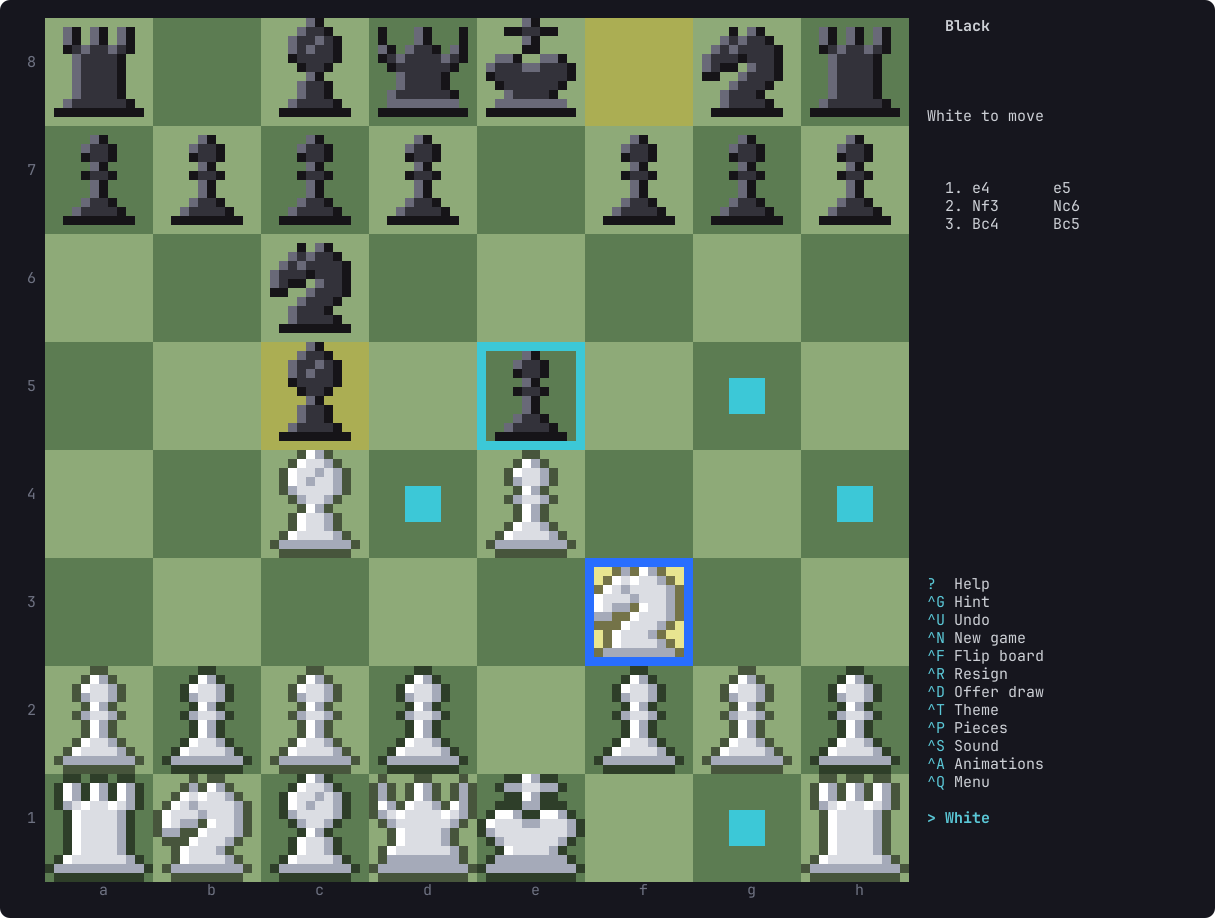
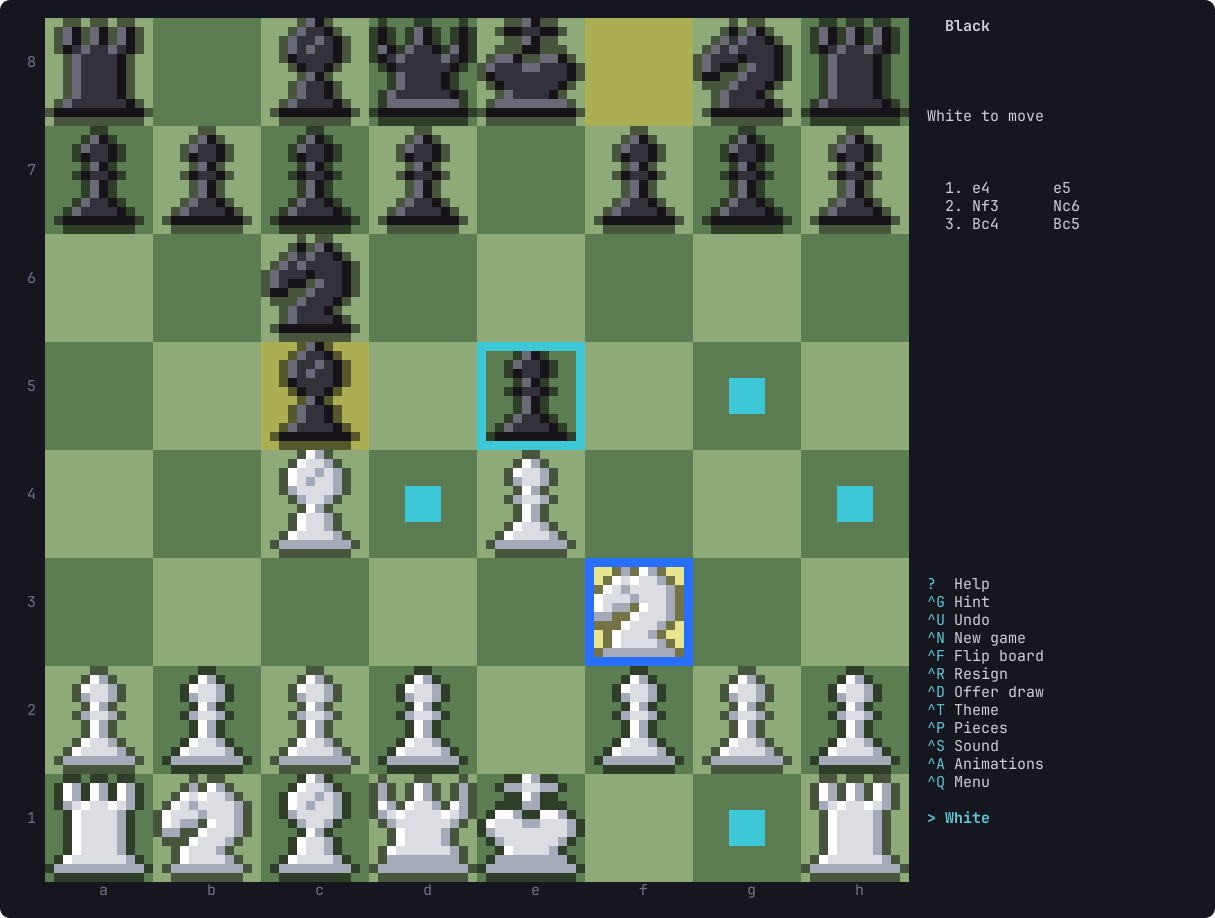
Black pieces have the same outline as the white ones in every style (0.2.4) (#12)
In the solid and shaded styles only the white pieces had the soft dark rim.
Both colors get it now, so a piece and its twin are the same shape, and a
test keeps it so. The README's picture is made again.

diff --git a/src/ui.rs b/src/ui.rs
@@ -748,9 +748,9 @@ impl Sprite {
             b'#' => Some(if white { theme.white } else { theme.black }),
             _ if clear(x + 1, y) && clear(x - 1, y) && clear(x, y + 1) && clear(x, y - 1) => None,
             _ if app.pieces == Pieces::Outlined => Some(if white { theme.black } else { mix(ground, theme.white, 0.8) }),
-            // White pieces get a soft dark rim so they stand out on a light square.
-            _ if white => Some(mix(ground, (0, 0, 0), 0.5)),
-            _ => None,
+            // A soft dark rim, so a white piece stands out on a light square. A black
+            // piece has it too: the two colors are the same shape in every style.
+            _ => Some(mix(ground, (0, 0, 0), 0.5)),
         }
     }
 }
@@ -1203,6 +1203,23 @@ mod tests {
     fn keys(app: &mut App, typed: &str) {
         for c in typed.chars() {
             app.on_key(KeyEvent::new(KeyCode::Char(c), KeyModifiers::NONE));
+        }
+    }
+
+    #[test]
+    fn both_colors_have_the_same_outline_in_every_style() {
+        for pieces in Pieces::ALL.into_iter().filter(|p| p.is_pixel_art()) {
+            let mut app = still();
+            app.pieces = pieces;
+            for kind in [Kind::King, Kind::Queen, Kind::Rook, Kind::Bishop, Kind::Knight, Kind::Pawn] {
+                for n in [8, 10, 12, 14, 16, 20, 24, 36] {
+                    let shape = |color| {
+                        let sprite = Sprite::new(Piece { color, kind }, n, Pose::Upright);
+                        (0..n * n).map(|i| sprite.color(&app, i % n, i / n, (120, 120, 120)).is_some()).collect::<Vec<bool>>()
+                    };
+                    assert_eq!(shape(Color::White), shape(Color::Black), "{pieces:?} {kind:?} at {n}");
+                }
+            }
         }
     }
 

diff --git a/CLAUDE.md b/CLAUDE.md
@@ -112,8 +112,15 @@ that `App::tick` polls every frame. One file per concern in `src/`:
   lower. A square of height `h` rows is `2h` columns wide, so `2h` pixels square.
   The art exists at 8, 10 and 12 pixels (`SMALL`, `MEDIUM`, `LARGE`); the largest
   size or whole multiple that fits is centered. Rims and shading are worked out from
-  the shape (`Cell::pixels`), not drawn into the art. Below 4 rows a square holds a
+  the shape (`Sprite::color`), not drawn into the art. Below 4 rows a square holds a
   chess symbol or a letter.
+- **A black piece and its white twin are the same shape in every pixel-art style**
+  (0.2.4), at the user's request in October 2026: they saw a rim around the white
+  pieces of `solid` and `shaded` that the black ones did not have. Both now get the
+  same soft dark rim, and `both_colors_have_the_same_outline_in_every_style` keeps it
+  so. Whatever is added around or onto a piece goes to both colors. Captured pieces
+  listed as text (hollow glyphs for white, filled for black) and `letters` (K and k)
+  still differ, since there the shape is what tells the colors apart.
 - **Animation is only ever a way of showing a position that is already final.** A move
   is played at once (`Game::play`); `App::moved` then keeps a `MoveFx` until it has
   been shown. `ui::game` draws the squares as they were while the piece is on its way
